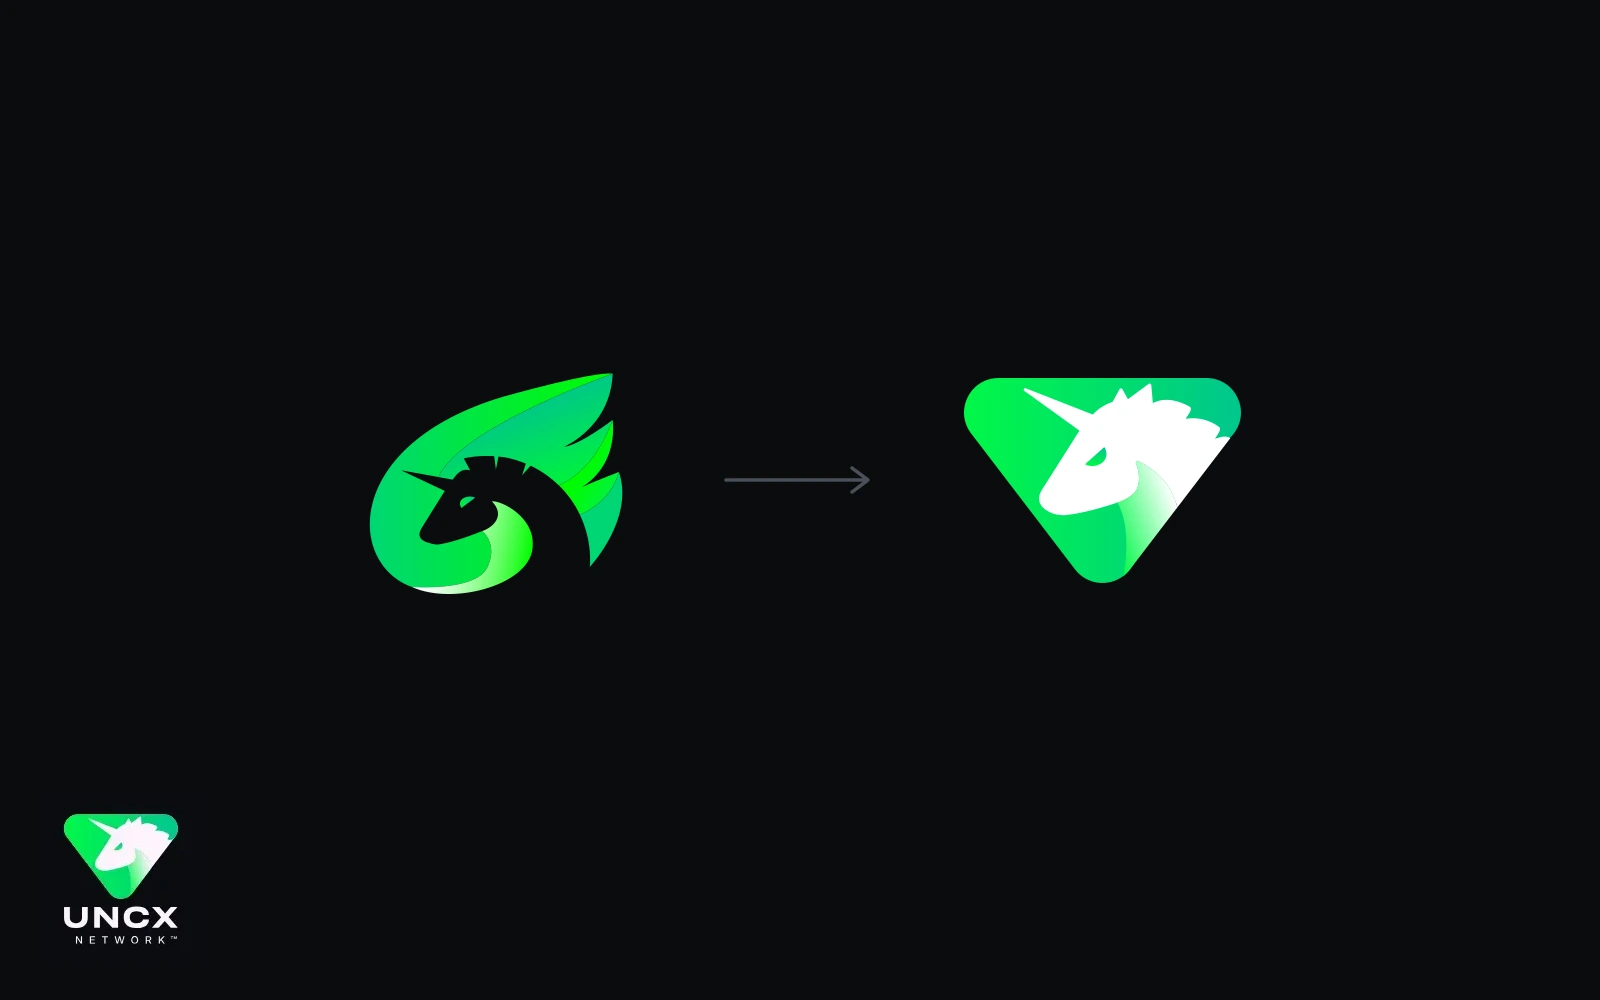
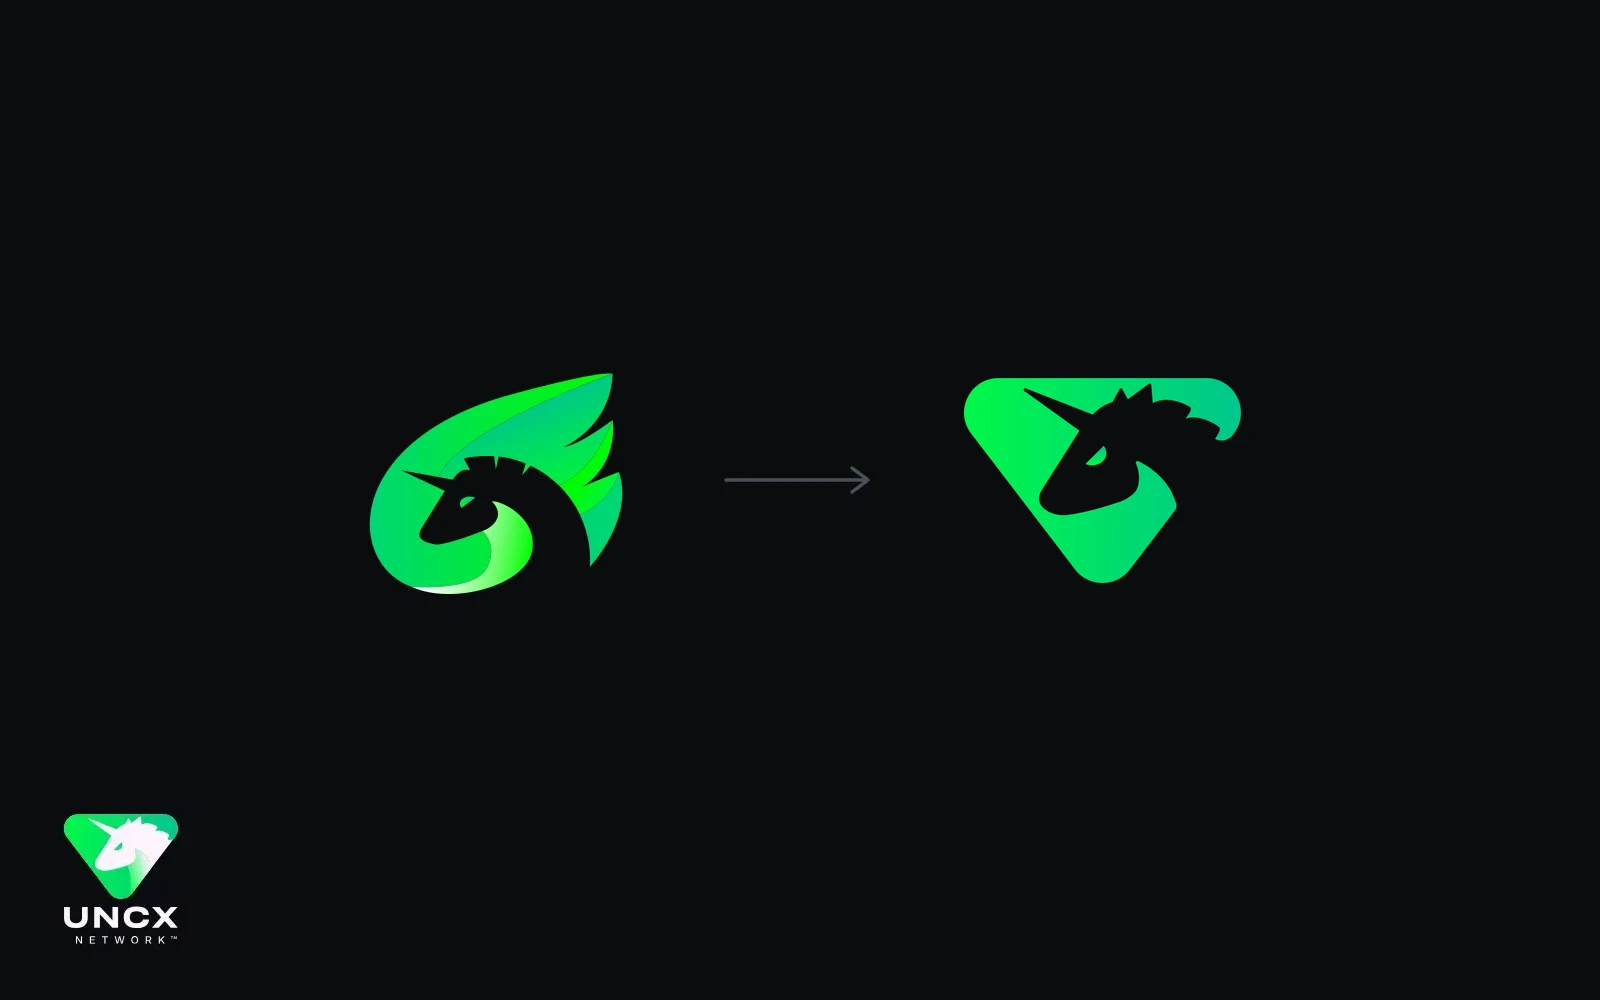
🍱 content(rebrand): show the UNCX mark as a cut-out, like the Unicrypt mark
The card set the old mark's cut-out head against the new mark's white
filled head, which made the new one read heavier. The new mark is now
rendered from the logotype vector without its light base layer, so both
heads are cut-outs.

Changed region(s): [[0.6562, 0.372, 0.7812, 0.558], [0.625, 0.372, 0.6562, 0.403]]

diff --git a/ROADMAP.md b/ROADMAP.md
@@ -78,7 +78,7 @@ behaviour, and conversion paths are approved.
   where the device decodes it; they are re-encoded to H.264 (VMAF 97.4 to
   98.9; 268 MB to 120 MB), with a test that rejects H.265 and late indexes.
   Rebrand: the old Unicrypt banner is gone and the card shows the Unicrypt mark
-  becoming the UNCX mark; brand
+  becoming the UNCX mark, both in the cut-out style; brand
   colours, YouTube cover and launch banner added. Academy: its card carries the
   UNCX corner mark, and five live-site captures sit beside their Figma designs
   in place of fifteen Figma-only page shots; three explainer films added. Video
